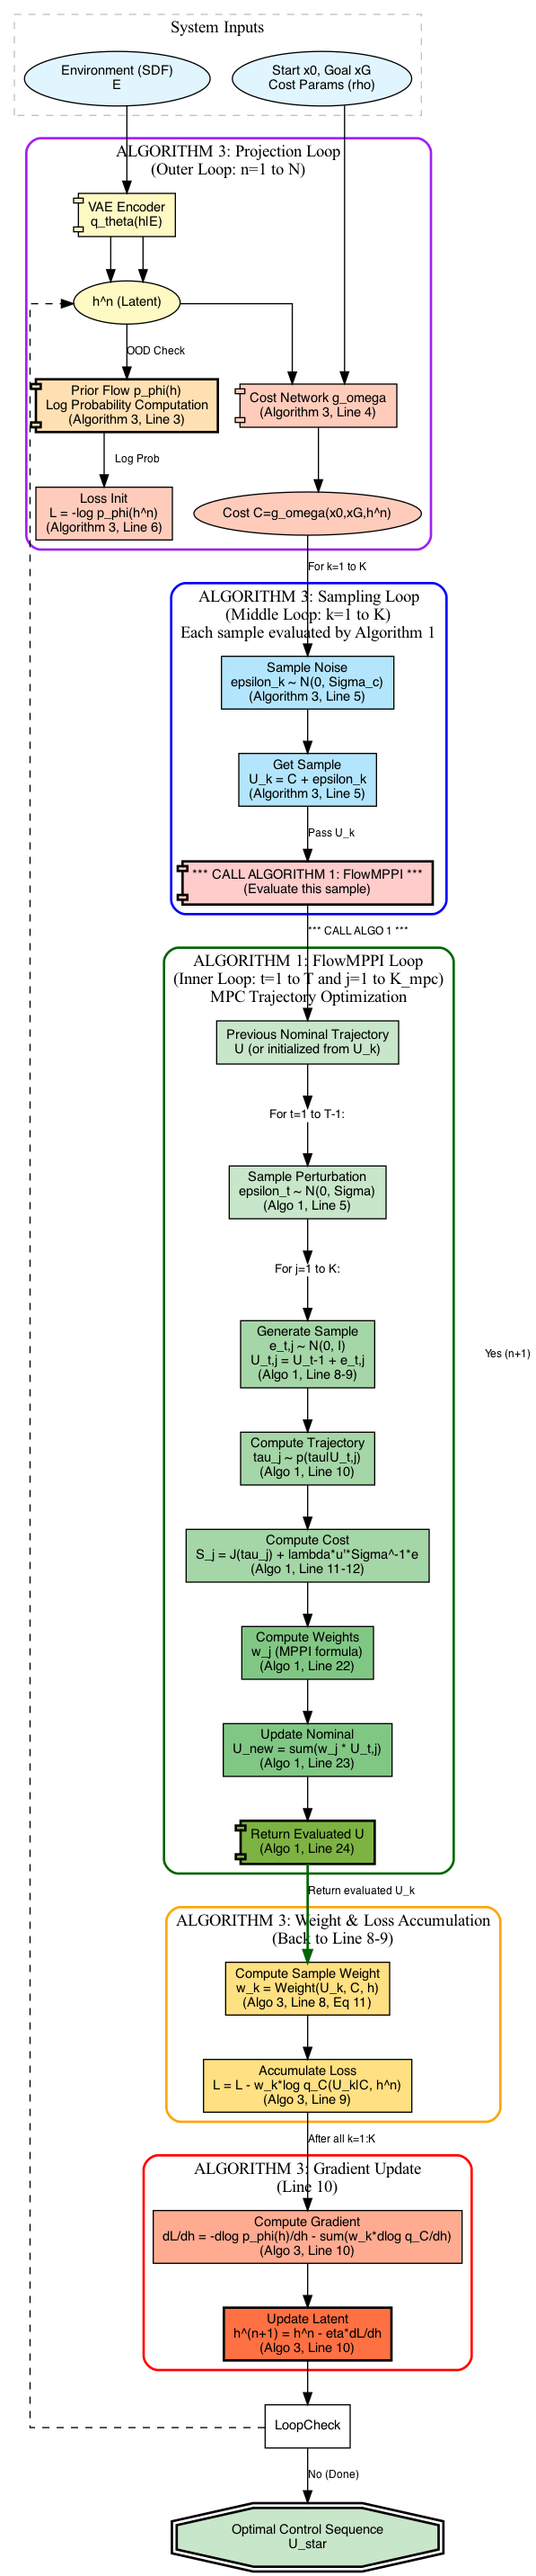
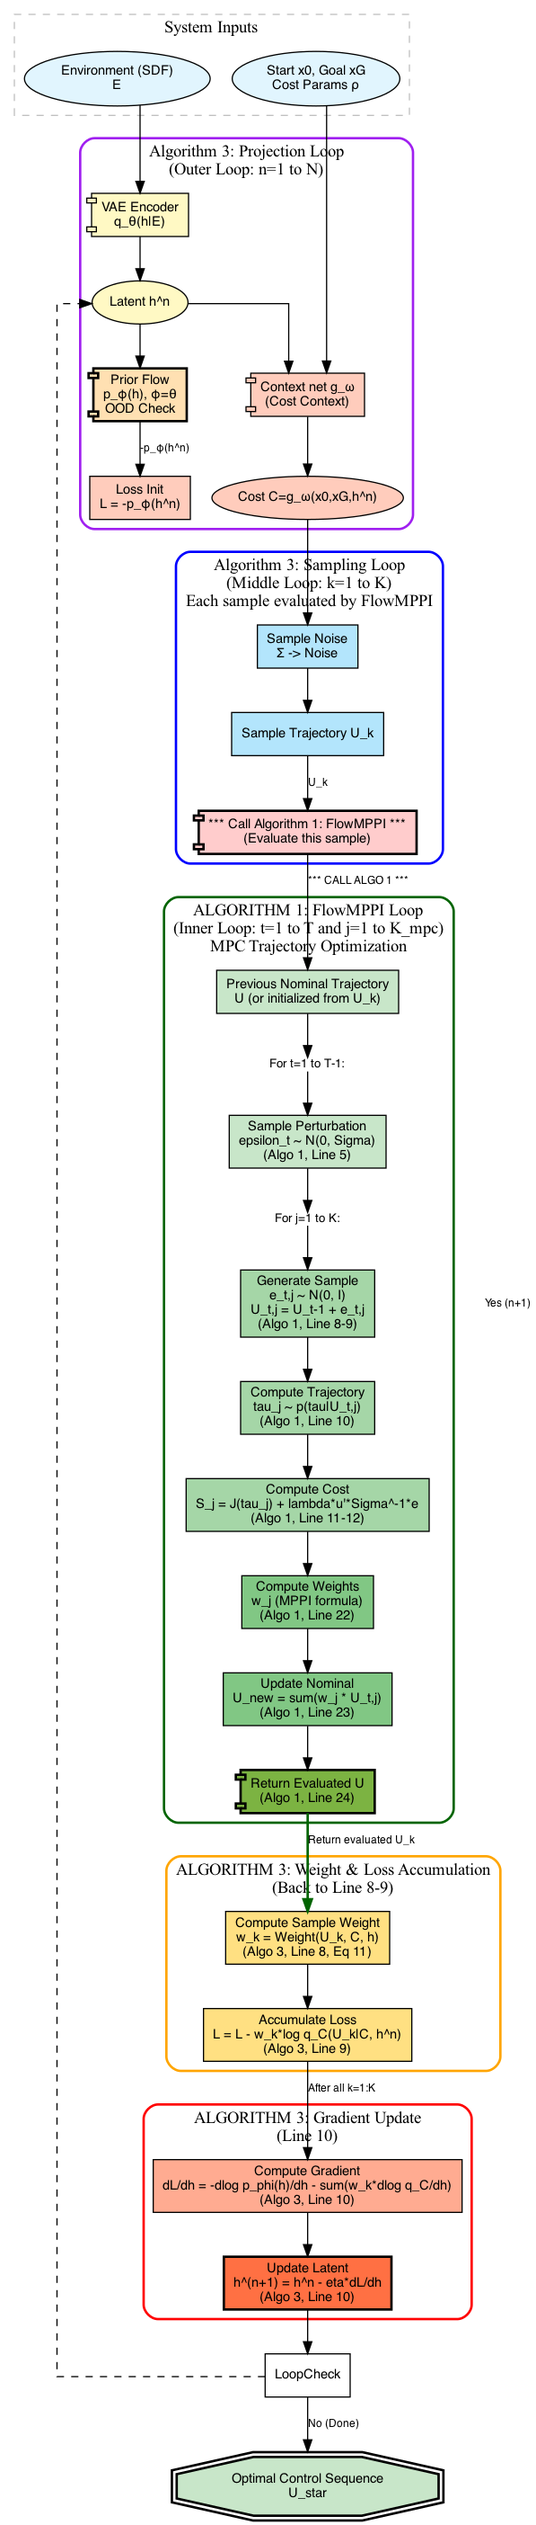
cmt-20260119-12

Changed region(s): [[0.0302, 0.0, 0.9347, 1.0], [0.9045, 0.8056, 0.9347, 0.8365], [0.9045, 0.4957, 0.9347, 0.5267]]

diff --git a/journal/TRO/24/learning_a_generalizable_trajectory_sampling_distrib_4_mpc/block_diagrams/flow_mpc_diagram_gen_1.py b/journal/TRO/24/learning_a_generalizable_trajectory_sampling_distrib_4_mpc/block_diagrams/flow_mpc_diagram_gen_1.py
@@ -12,50 +12,48 @@ def create_mpc_block_diagram():
     with dot.subgraph(name='cluster_inputs') as c:
         c.attr(label='System Inputs', style='dashed', color='grey')
         c.node('Env', 'Environment (SDF)\nE', shape='ellipse', fillcolor='#e1f5fe')
-        c.node('State', 'Start x0, Goal xG\nCost Params (rho)', shape='ellipse', fillcolor='#e1f5fe')
+        c.node('State', 'Start x0, Goal xG\nCost Params ρ', shape='ellipse', fillcolor='#e1f5fe')
 
     # --- ALGORITHM 3: PROJECTION LOOP (OUTER) ---
     with dot.subgraph(name='cluster_projection') as c:
-        c.attr(label='ALGORITHM 3: Projection Loop\n(Outer Loop: n=1 to N)', color='purple', style='rounded,bold')
+        c.attr(label='Algorithm 3: Projection Loop\n(Outer Loop: n=1 to N)', color='purple', style='rounded,bold')
         
         # VAE Encoder
-        c.node('Encoder', 'VAE Encoder\nq_theta(h|E)', shape='component', fillcolor='#fff9c4')
-        c.node('h_init', 'h^n (Latent)', shape='ellipse', fillcolor='#fff9c4')
+        c.node('Encoder', 'VAE Encoder\nq_θ(h|E)', shape='component', fillcolor='#fff9c4')
+        c.node('h_init', 'Latent h^n', shape='ellipse', fillcolor='#fff9c4')
         
         # Prior OOD Check
-        c.node('Prior', 'Prior Flow p_phi(h)\nLog Probability Computation\n(Algorithm 3, Line 3)', 
-               shape='component', fillcolor='#ffe0b2', style='filled,bold')
+        c.node('Prior', 'Prior Flow\np_φ(h), φ=θ\nOOD Check', shape='component', fillcolor='#ffe0b2', style='filled,bold')
         
         # Cost Context
-        c.node('CostNet', 'Cost Network g_omega\n(Algorithm 3, Line 4)', shape='component', fillcolor='#ffccbc')
-        c.node('Cost_C', 'Cost C=g_omega(x0,xG,h^n)', shape='ellipse', fillcolor='#ffccbc')
+        c.node('CostNet', 'Context net g_ω\n(Cost Context)', shape='component', fillcolor='#ffccbc')
+        c.node('Cost_C', 'Cost C=g_ω(x0,xG,h^n)', shape='ellipse', fillcolor='#ffccbc')
         
         # Loss initialization
-        c.node('LossInit', 'Loss Init\nL = -log p_phi(h^n)\n(Algorithm 3, Line 6)', 
+        c.node('LossInit', 'Loss Init\nL = -p_φ(h^n)', 
                shape='box', fillcolor='#ffccbc')
         
         # Internal edges
-        c.edge('Encoder', 'h_init')
-        c.edge('h_init', 'Prior', label='OOD Check')
+        c.edge('h_init', 'Prior')
         c.edge('h_init', 'CostNet')
         c.edge('CostNet', 'Cost_C')
-        c.edge('Prior', 'LossInit', label='Log Prob')
+        c.edge('Prior', 'LossInit', label='-p_φ(h^n)')
 
     # --- ALGORITHM 3: SAMPLING LOOP (MIDDLE) ---
     with dot.subgraph(name='cluster_sampling') as c:
-        c.attr(label='ALGORITHM 3: Sampling Loop\n(Middle Loop: k=1 to K)\nEach sample evaluated by Algorithm 1', 
+        c.attr(label='Algorithm 3: Sampling Loop\n(Middle Loop: k=1 to K)\nEach sample evaluated by FlowMPPI', 
                color='blue', style='rounded,bold')
         
         # Noise sampling
-        c.node('NoiseSample', 'Sample Noise\nepsilon_k ~ N(0, Sigma_c)\n(Algorithm 3, Line 5)', 
+        c.node('NoiseSample', 'Sample Noise\nΣ -> Noise', 
                shape='box', fillcolor='#b3e5fc')
         
         # Get trajectory sample
-        c.node('TrajSample', 'Get Sample\nU_k = C + epsilon_k\n(Algorithm 3, Line 5)', 
+        c.node('TrajSample', 'Sample Trajectory U_k', 
                shape='box', fillcolor='#b3e5fc')
         
         # Separator
-        c.node('Algo1Call', '*** CALL ALGORITHM 1: FlowMPPI ***\n(Evaluate this sample)', 
+        c.node('Algo1Call', '*** Call Algorithm 1: FlowMPPI ***\n(Evaluate this sample)', 
                shape='component', fillcolor='#ffcccc', style='filled,bold')
 
     # --- ALGORITHM 1: MPC INNER LOOP ---
@@ -83,7 +81,7 @@ def create_mpc_block_diagram():
         c.node('Compute_cost', 'Compute Cost\nS_j = J(tau_j) + lambda*u\'*Sigma^-1*e\n(Algo 1, Line 11-12)', 
                shape='box', fillcolor='#a5d6a7')
         
-        # CEM or MPPI weights
+        # iCEM or MPPI weights
         c.node('Weights', 'Compute Weights\nw_j (MPPI formula)\n(Algo 1, Line 22)', 
                shape='box', fillcolor='#81c784')
         
@@ -145,11 +143,11 @@ def create_mpc_block_diagram():
     dot.edge('Encoder', 'h_init')
     
     # 3. Sampling Loop begins
-    dot.edge('Cost_C', 'NoiseSample', label='For k=1 to K')
+    dot.edge('Cost_C', 'NoiseSample')
     dot.edge('NoiseSample', 'TrajSample')
     
     # 4. Call Algorithm 1
-    dot.edge('TrajSample', 'Algo1Call', label='Pass U_k')
+    dot.edge('TrajSample', 'Algo1Call', label='U_k')
     dot.edge('Algo1Call', 'Nominal', label='*** CALL ALGO 1 ***')
     
     # 5. Algorithm 1 processes
